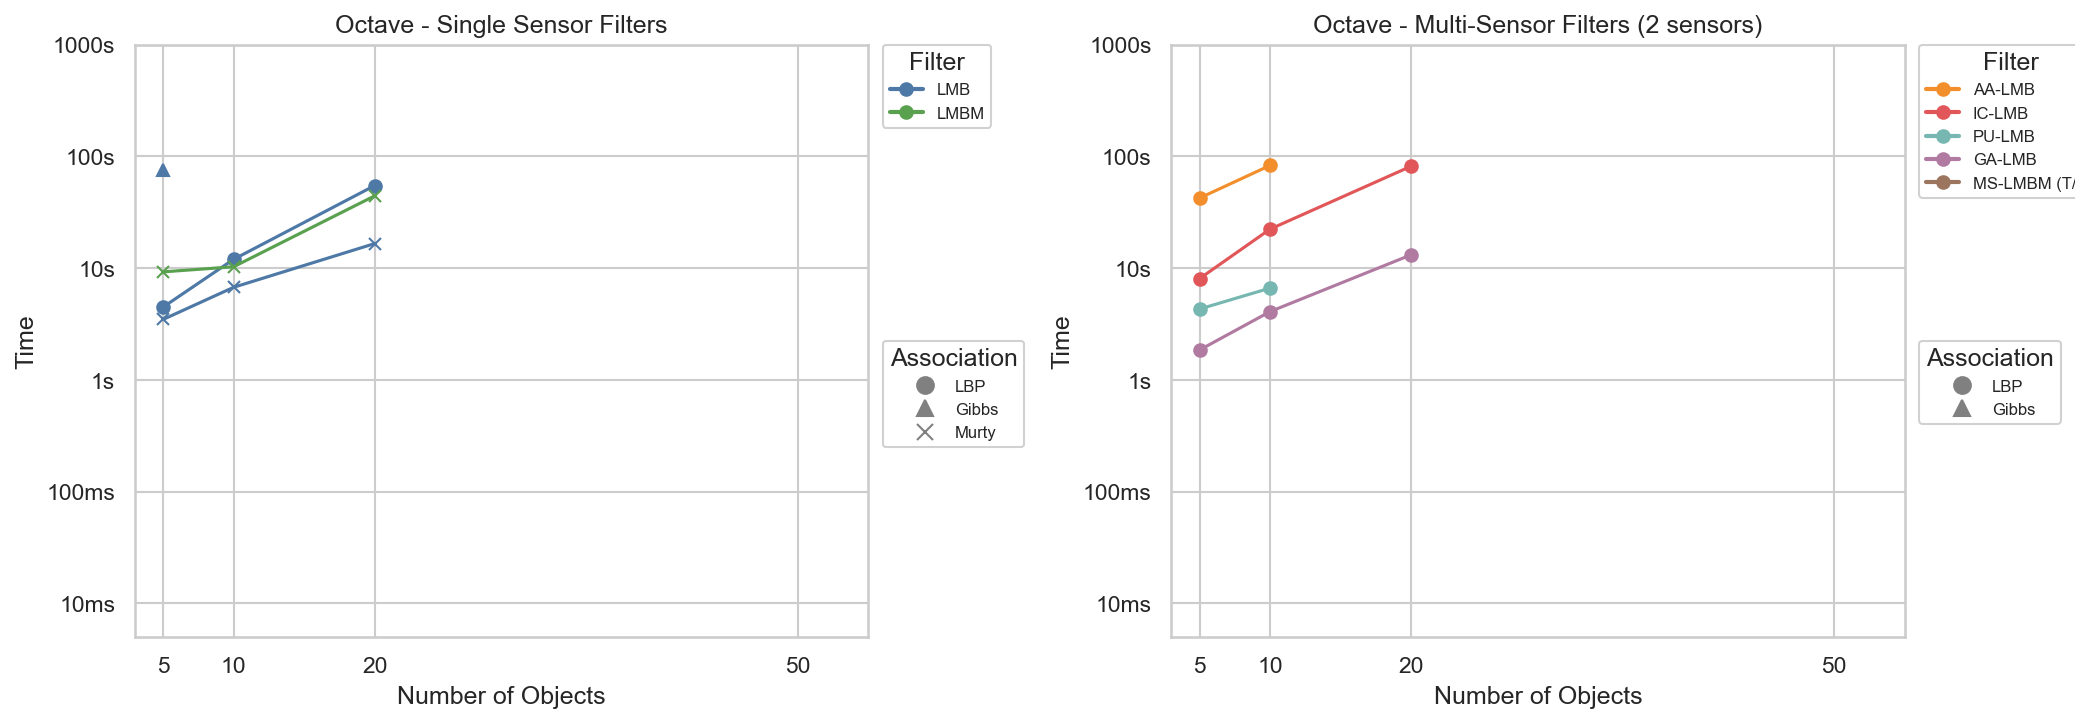
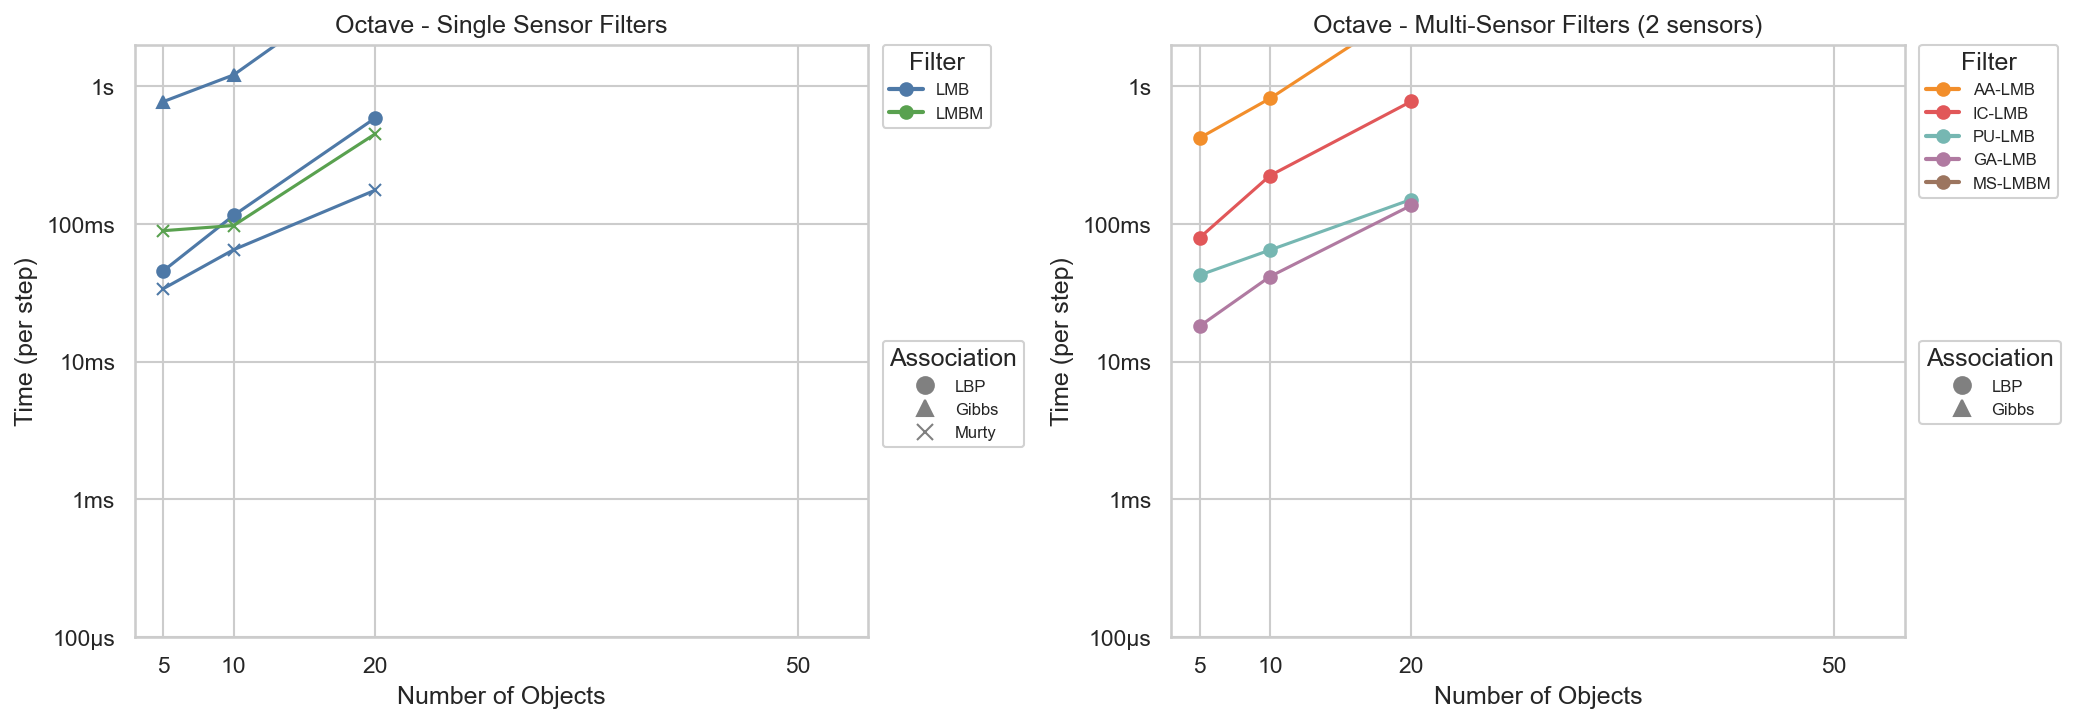
docs: long compute bench

diff --git a/README_BENCHMARKS.md b/README_BENCHMARKS.md
@@ -1,6 +1,6 @@
 # LMB Filter Benchmark Results
 
-*Generated: 2026-01-07 13:47:40*
+*Generated: 2026-01-07 19:55:55*
 
 ## Overview
 
@@ -32,7 +32,10 @@ This benchmark compares implementations of the LMB (Labeled Multi-Bernoulli) fil
 
 ## Methodology
 
-- **Timeout**: 120 seconds per scenario
+Methodology Details:
+- **Simulation**: Bouncing objects in 2D space [-100, 100]^2
+- **Steps**: 100 simulation steps per scenario
+- **Model**: Constant velocity (std=3.0), P_d=0.98, P_s=0.99, Clutter(lambda=1.0)
 - **Thresholds**: existence=1e-3, gm_weight=1e-4, max_components=100, gm_merge=∞
 - **Association**: LBP (100 iterations, tol 1e-6), Gibbs (1000 samples), Murty (25 assignments)
 - **RNG Seed**: 42 (deterministic across all implementations)
@@ -42,123 +45,123 @@ This benchmark compares implementations of the LMB (Labeled Multi-Bernoulli) fil
 ### LMB-LBP
 
 
-| Objects | Sensors | Octave (ms) | Python (ms) | Rust (ms) |
-|---------|---------|-------------|-------------|-----------|
-| 5 | 1 | 4478.3 | 54.4 (×82.3) | 87.6 (×51.1) |
-| 10 | 1 | 11991.0 | 148.6 (×80.7) | 153.9 (×77.9) |
-| 20 | 1 | 54818.9 | 740.9 (×74.0) | 749.8 (×73.1) |
+| Objects | Sensors | Octave (ms/step) | Python (ms/step) | Rust (ms/step) |
+|---------|---------|------------------|------------------|----------------|
+| 5 | 1 | 45.41 \u00b1 31.75 | 0.71 \u00b1 0.70 (\u00d764.1) | 0.94 \u00b1 0.82 (\u00d748.1) |
+| 10 | 1 | 115.13 \u00b1 78.16 | 1.47 \u00b1 1.07 (\u00d778.3) | 1.58 \u00b1 1.15 (\u00d772.8) |
+| 20 | 1 | 582.98 \u00b1 627.34 | 7.17 \u00b1 6.84 (\u00d781.3) | 7.24 \u00b1 7.13 (\u00d780.5) |
 
 ### LMB-Gibbs
 
 
-| Objects | Sensors | Octave (ms) | Python (ms) | Rust (ms) |
-|---------|---------|-------------|-------------|-----------|
-| 5 | 1 | 75539.4 | 45.6 (×1656.9) | 40.8 (×1853.7) |
-| 10 | 1 | TIMEOUT | 75.2 (N/A) | 79.8 (N/A) |
-| 20 | 1 | SKIP | 169.0 (N/A) | 179.3 (N/A) |
+| Objects | Sensors | Octave (ms/step) | Python (ms/step) | Rust (ms/step) |
+|---------|---------|------------------|------------------|----------------|
+| 5 | 1 | 771.39 \u00b1 479.99 | 0.39 \u00b1 0.16 (\u00d71953.9) | 0.54 \u00b1 0.22 (\u00d71435.1) |
+| 10 | 1 | 1207.08 \u00b1 574.11 | 0.74 \u00b1 0.33 (\u00d71638.5) | 0.74 \u00b1 0.34 (\u00d71640.5) |
+| 20 | 1 | 6430.94 \u00b1 44421.96 | 1.65 \u00b1 0.86 (\u00d73887.9) | 1.69 \u00b1 0.90 (\u00d73812.5) |
 
 ### LMB-Murty
 
 
-| Objects | Sensors | Octave (ms) | Python (ms) | Rust (ms) |
-|---------|---------|-------------|-------------|-----------|
-| 5 | 1 | 3472.4 | 957.5 (×3.6) | 966.0 (×3.6) |
-| 10 | 1 | 6737.2 | 2327.8 (×2.9) | 2292.0 (×2.9) |
-| 20 | 1 | 16585.3 | 7217.3 (×2.3) | 7288.4 (×2.3) |
+| Objects | Sensors | Octave (ms/step) | Python (ms/step) | Rust (ms/step) |
+|---------|---------|------------------|------------------|----------------|
+| 5 | 1 | 33.76 \u00b1 11.46 | 9.24 \u00b1 5.25 (\u00d73.7) | 9.72 \u00b1 5.45 (\u00d73.5) |
+| 10 | 1 | 64.85 \u00b1 17.66 | 22.98 \u00b1 12.46 (\u00d72.8) | 23.91 \u00b1 13.45 (\u00d72.7) |
+| 20 | 1 | 174.88 \u00b1 69.51 | 74.93 \u00b1 58.00 (\u00d72.3) | 72.71 \u00b1 54.07 (\u00d72.4) |
 
 ### LMBM-Gibbs
 
 
-| Objects | Sensors | Octave (ms) | Python (ms) | Rust (ms) |
-|---------|---------|-------------|-------------|-----------|
-| 5 | 1 | TIMEOUT | 4846.4 (N/A) | 4516.3 (N/A) |
-| 5 | 2 | SKIP | 4634.7 (N/A) | 4409.6 (N/A) |
-| 10 | 1 | SKIP | 8655.5 (N/A) | 7975.5 (N/A) |
-| 10 | 2 | SKIP | 7949.5 (N/A) | 8696.4 (N/A) |
-| 10 | 4 | SKIP | 8264.2 (N/A) | 8352.0 (N/A) |
-| 20 | 1 | SKIP | 20934.7 (N/A) | 15067.5 (N/A) |
-| 20 | 2 | SKIP | 15401.5 (N/A) | 15066.9 (N/A) |
-| 20 | 4 | SKIP | 14782.3 (N/A) | 16789.0 (N/A) |
-| 20 | 8 | SKIP | 15125.0 (N/A) | 19385.7 (N/A) |
-| 50 | 8 | SKIP | 35566.8 (N/A) | 34698.0 (N/A) |
+| Objects | Sensors | Octave (ms/step) | Python (ms/step) | Rust (ms/step) |
+|---------|---------|------------------|------------------|----------------|
+| 5 | 1 | TIMEOUT | 43.95 \u00b1 10.42 (N/A) | 43.77 \u00b1 9.78 (N/A) |
+| 5 | 2 | SKIP | 42.21 \u00b1 9.43 (N/A) | 42.42 \u00b1 9.75 (N/A) |
+| 10 | 1 | SKIP | 75.28 \u00b1 14.46 (N/A) | 74.99 \u00b1 14.86 (N/A) |
+| 10 | 2 | SKIP | 75.72 \u00b1 12.63 (N/A) | 75.83 \u00b1 13.92 (N/A) |
+| 10 | 4 | SKIP | 80.76 \u00b1 19.88 (N/A) | 77.12 \u00b1 13.56 (N/A) |
+| 20 | 1 | SKIP | 156.83 \u00b1 34.49 (N/A) | 159.83 \u00b1 51.14 (N/A) |
+| 20 | 2 | SKIP | 155.19 \u00b1 30.06 (N/A) | 162.36 \u00b1 38.83 (N/A) |
+| 20 | 4 | SKIP | 153.77 \u00b1 29.27 (N/A) | 162.83 \u00b1 43.37 (N/A) |
+| 20 | 8 | SKIP | 155.53 \u00b1 37.93 (N/A) | 161.65 \u00b1 37.45 (N/A) |
+| 50 | 8 | SKIP | 364.43 \u00b1 69.76 (N/A) | 360.15 \u00b1 71.23 (N/A) |
 
 ### LMBM-Murty
 
 
-| Objects | Sensors | Octave (ms) | Python (ms) | Rust (ms) |
-|---------|---------|-------------|-------------|-----------|
-| 5 | 1 | 9258.0 | 3140.4 (×2.9) | 3143.1 (×2.9) |
-| 5 | 2 | 26955.9 | 3131.8 (×8.6) | 3230.9 (×8.3) |
-| 10 | 1 | 10286.3 | 3216.7 (×3.2) | 3232.1 (×3.2) |
-| 10 | 2 | 27821.3 | 3191.2 (×8.7) | 3170.3 (×8.8) |
-| 10 | 4 | 22084.7 | 3366.9 (×6.6) | 3292.7 (×6.7) |
-| 20 | 1 | 44367.8 | 3518.6 (×12.6) | 3338.0 (×13.3) |
-| 20 | 2 | 34274.6 | 3253.6 (×10.5) | 3286.9 (×10.4) |
-| 20 | 4 | 37055.7 | 3630.6 (×10.2) | 3602.7 (×10.3) |
-| 20 | 8 | 23886.9 | 3358.0 (×7.1) | 3253.0 (×7.3) |
-| 50 | 8 | 52480.6 | 3729.9 (×14.1) | 3854.8 (×13.6) |
+| Objects | Sensors | Octave (ms/step) | Python (ms/step) | Rust (ms/step) |
+|---------|---------|------------------|------------------|----------------|
+| 5 | 1 | 89.18 \u00b1 77.95 | 29.54 \u00b1 5.36 (\u00d73.0) | 29.57 \u00b1 5.36 (\u00d73.0) |
+| 5 | 2 | 257.06 \u00b1 67.60 | 29.15 \u00b1 4.92 (\u00d78.8) | 29.65 \u00b1 5.72 (\u00d78.7) |
+| 10 | 1 | 97.24 \u00b1 112.71 | 30.11 \u00b1 5.29 (\u00d73.2) | 32.48 \u00b1 7.52 (\u00d73.0) |
+| 10 | 2 | 267.24 \u00b1 58.95 | 30.57 \u00b1 5.18 (\u00d78.7) | 31.25 \u00b1 7.04 (\u00d78.6) |
+| 10 | 4 | 212.50 \u00b1 122.16 | 32.13 \u00b1 5.21 (\u00d76.6) | 30.95 \u00b1 5.34 (\u00d76.9) |
+| 20 | 1 | 447.20 \u00b1 178.04 | 31.81 \u00b1 5.21 (\u00d714.1) | 32.12 \u00b1 8.26 (\u00d713.9) |
+| 20 | 2 | 321.68 \u00b1 100.72 | 31.89 \u00b1 5.95 (\u00d710.1) | 31.83 \u00b1 5.19 (\u00d710.1) |
+| 20 | 4 | 368.29 \u00b1 132.72 | 31.50 \u00b1 5.48 (\u00d711.7) | 32.15 \u00b1 6.72 (\u00d711.5) |
+| 20 | 8 | 242.17 \u00b1 120.09 | 33.53 \u00b1 7.54 (\u00d77.2) | 32.96 \u00b1 6.72 (\u00d77.3) |
+| 50 | 8 | 537.13 \u00b1 189.37 | 37.93 \u00b1 7.12 (\u00d714.2) | 38.94 \u00b1 6.97 (\u00d713.8) |
 
 ### AA-LMB-LBP
 
 
-| Objects | Sensors | Octave (ms) | Python (ms) | Rust (ms) |
-|---------|---------|-------------|-------------|-----------|
-| 5 | 2 | 42410.7 | 544.4 (×77.9) | 544.0 (×78.0) |
-| 10 | 2 | 83106.7 | 1623.4 (×51.2) | 1651.7 (×50.3) |
-| 10 | 4 | TIMEOUT | 8431.5 (N/A) | 8139.6 (N/A) |
-| 20 | 2 | SKIP | 6410.1 (N/A) | 6519.6 (N/A) |
-| 20 | 4 | SKIP | 23168.2 (N/A) | 27859.8 (N/A) |
-| 20 | 8 | SKIP | 57079.9 (N/A) | 57696.3 (N/A) |
-| 50 | 8 | SKIP | TIMEOUT | TIMEOUT |
+| Objects | Sensors | Octave (ms/step) | Python (ms/step) | Rust (ms/step) |
+|---------|---------|------------------|------------------|----------------|
+| 5 | 2 | 420.33 \u00b1 458.87 | 4.94 \u00b1 3.27 (\u00d785.0) | 5.19 \u00b1 3.70 (\u00d781.0) |
+| 10 | 2 | 814.99 \u00b1 847.78 | 16.21 \u00b1 7.98 (\u00d750.3) | 15.90 \u00b1 7.75 (\u00d751.3) |
+| 10 | 4 | 4884.95 \u00b1 2894.06 | 77.79 \u00b1 33.78 (\u00d762.8) | 80.04 \u00b1 34.82 (\u00d761.0) |
+| 20 | 2 | 3801.13 \u00b1 2493.31 | 64.66 \u00b1 26.15 (\u00d758.8) | 67.85 \u00b1 28.68 (\u00d756.0) |
+| 20 | 4 | TIMEOUT | 212.10 \u00b1 72.79 (N/A) | 212.07 \u00b1 72.68 (N/A) |
+| 20 | 8 | SKIP | 579.56 \u00b1 186.59 (N/A) | 579.33 \u00b1 189.21 (N/A) |
+| 50 | 8 | SKIP | 2584.64 \u00b1 719.81 (N/A) | 2608.69 \u00b1 719.57 (N/A) |
 
 ### IC-LMB-LBP
 
 
-| Objects | Sensors | Octave (ms) | Python (ms) | Rust (ms) |
-|---------|---------|-------------|-------------|-----------|
-| 5 | 2 | 8061.9 | 94.3 (×85.5) | 95.1 (×84.8) |
-| 10 | 2 | 22354.2 | 267.5 (×83.6) | 277.5 (×80.5) |
-| 10 | 4 | 53179.1 | 571.4 (×93.1) | 567.0 (×93.8) |
-| 20 | 2 | 81746.3 | 1104.3 (×74.0) | 1161.6 (×70.4) |
-| 20 | 4 | TIMEOUT | 1893.5 (N/A) | 1976.1 (N/A) |
-| 20 | 8 | SKIP | 4587.3 (N/A) | 4669.9 (N/A) |
-| 50 | 8 | SKIP | 32869.5 (N/A) | 33703.1 (N/A) |
+| Objects | Sensors | Octave (ms/step) | Python (ms/step) | Rust (ms/step) |
+|---------|---------|------------------|------------------|----------------|
+| 5 | 2 | 79.19 \u00b1 74.66 | 0.89 \u00b1 0.64 (\u00d788.9) | 0.89 \u00b1 0.61 (\u00d788.5) |
+| 10 | 2 | 224.33 \u00b1 233.67 | 2.68 \u00b1 1.38 (\u00d783.8) | 2.60 \u00b1 1.37 (\u00d786.4) |
+| 10 | 4 | 502.75 \u00b1 391.91 | 5.53 \u00b1 2.45 (\u00d790.9) | 5.56 \u00b1 2.41 (\u00d790.5) |
+| 20 | 2 | 774.18 \u00b1 603.88 | 10.86 \u00b1 9.34 (\u00d771.3) | 10.79 \u00b1 9.33 (\u00d771.7) |
+| 20 | 4 | 1344.30 \u00b1 527.57 | 18.61 \u00b1 7.62 (\u00d772.2) | 19.49 \u00b1 7.90 (\u00d769.0) |
+| 20 | 8 | 3313.94 \u00b1 1306.22 | 44.36 \u00b1 17.20 (\u00d774.7) | 44.43 \u00b1 17.38 (\u00d774.6) |
+| 50 | 8 | TIMEOUT | 329.41 \u00b1 97.40 (N/A) | 332.44 \u00b1 93.79 (N/A) |
 
 ### PU-LMB-LBP
 
 
-| Objects | Sensors | Octave (ms) | Python (ms) | Rust (ms) |
-|---------|---------|-------------|-------------|-----------|
-| 5 | 2 | 4304.0 | 50.5 (×85.2) | 56.9 (×75.7) |
-| 10 | 2 | 6628.0 | 77.2 (×85.9) | 80.5 (×82.3) |
-| 10 | 4 | TIMEOUT | 1126.2 (N/A) | 1152.9 (N/A) |
-| 20 | 2 | SKIP | 221.1 (N/A) | 231.0 (N/A) |
-| 20 | 4 | SKIP | 15718.4 (N/A) | 15786.4 (N/A) |
-| 20 | 8 | SKIP | TIMEOUT | TIMEOUT |
-| 50 | 8 | SKIP | SKIP | SKIP |
+| Objects | Sensors | Octave (ms/step) | Python (ms/step) | Rust (ms/step) |
+|---------|---------|------------------|------------------|----------------|
+| 5 | 2 | 42.43 \u00b1 23.28 | 0.36 \u00b1 0.12 (\u00d7119.2) | 0.35 \u00b1 0.10 (\u00d7119.7) |
+| 10 | 2 | 64.57 \u00b1 42.55 | 0.77 \u00b1 0.35 (\u00d783.9) | 0.81 \u00b1 0.38 (\u00d779.2) |
+| 10 | 4 | 1443.57 \u00b1 1277.19 | 11.42 \u00b1 11.37 (\u00d7126.4) | 11.60 \u00b1 11.89 (\u00d7124.5) |
+| 20 | 2 | 150.26 \u00b1 71.14 | 2.12 \u00b1 0.73 (\u00d770.7) | 2.24 \u00b1 0.78 (\u00d767.1) |
+| 20 | 4 | TIMEOUT | 155.81 \u00b1 220.99 (N/A) | 158.31 \u00b1 228.78 (N/A) |
+| 20 | 8 | SKIP | ERROR | ERROR |
+| 50 | 8 | SKIP | ERROR | ERROR |
 
 ### GA-LMB-LBP
 
 
-| Objects | Sensors | Octave (ms) | Python (ms) | Rust (ms) |
-|---------|---------|-------------|-------------|-----------|
-| 5 | 2 | 1851.2 | 30.3 (×61.1) | 29.5 (×62.7) |
-| 10 | 2 | 4083.1 | 62.6 (×65.2) | 60.7 (×67.3) |
-| 10 | 4 | 7060.5 | 104.4 (×67.6) | 107.2 (×65.9) |
-| 20 | 2 | 13161.7 | 199.1 (×66.1) | 203.4 (×64.7) |
-| 20 | 4 | 22660.7 | 366.9 (×61.8) | 374.0 (×60.6) |
-| 20 | 8 | 38279.3 | 696.3 (×55.0) | 689.9 (×55.5) |
-| 50 | 8 | TIMEOUT | 5968.2 (N/A) | 6062.5 (N/A) |
+| Objects | Sensors | Octave (ms/step) | Python (ms/step) | Rust (ms/step) |
+|---------|---------|------------------|------------------|----------------|
+| 5 | 2 | 18.07 \u00b1 11.30 | 0.28 \u00b1 0.15 (\u00d764.1) | 0.29 \u00b1 0.14 (\u00d762.7) |
+| 10 | 2 | 41.45 \u00b1 37.66 | 0.58 \u00b1 0.36 (\u00d771.6) | 0.57 \u00b1 0.38 (\u00d772.5) |
+| 10 | 4 | 66.44 \u00b1 34.83 | 0.99 \u00b1 0.66 (\u00d767.3) | 0.98 \u00b1 0.69 (\u00d767.9) |
+| 20 | 2 | 136.06 \u00b1 116.04 | 1.79 \u00b1 1.77 (\u00d775.8) | 1.84 \u00b1 1.86 (\u00d773.9) |
+| 20 | 4 | 194.18 \u00b1 163.85 | 3.60 \u00b1 3.68 (\u00d754.0) | 3.74 \u00b1 4.38 (\u00d751.9) |
+| 20 | 8 | 389.94 \u00b1 338.37 | 6.79 \u00b1 7.47 (\u00d757.4) | 7.66 \u00b1 10.17 (\u00d750.9) |
+| 50 | 8 | 23819.81 \u00b1 135882.29 | 58.36 \u00b1 52.12 (\u00d7408.2) | 61.68 \u00b1 56.20 (\u00d7386.2) |
 
 ### MS-LMBM-Gibbs
 
 
-| Objects | Sensors | Octave (ms) | Python (ms) | Rust (ms) |
-|---------|---------|-------------|-------------|-----------|
-| 5 | 2 | TIMEOUT | 531.5 (N/A) | 558.8 (N/A) |
-| 10 | 2 | SKIP | 1018.9 (N/A) | 1008.6 (N/A) |
-| 10 | 4 | SKIP | 56084.3 (N/A) | 55656.9 (N/A) |
-| 20 | 2 | SKIP | 4061.9 (N/A) | 3693.9 (N/A) |
+| Objects | Sensors | Octave (ms/step) | Python (ms/step) | Rust (ms/step) |
+|---------|---------|------------------|------------------|----------------|
+| 5 | 2 | 4769.72 \u00b1 6777.22 | 5.24 \u00b1 1.50 (\u00d7910.7) | 5.38 \u00b1 1.50 (\u00d7886.2) |
+| 10 | 2 | TIMEOUT | 9.67 \u00b1 2.00 (N/A) | 9.58 \u00b1 1.88 (N/A) |
+| 10 | 4 | SKIP | 545.09 \u00b1 95.75 (N/A) | 550.69 \u00b1 93.81 (N/A) |
+| 20 | 2 | SKIP | 35.68 \u00b1 8.89 (N/A) | 34.98 \u00b1 8.80 (N/A) |
 | 20 | 4 | SKIP | TIMEOUT | TIMEOUT |
 | 20 | 8 | SKIP | SKIP | SKIP |
 | 50 | 8 | SKIP | SKIP | SKIP |
